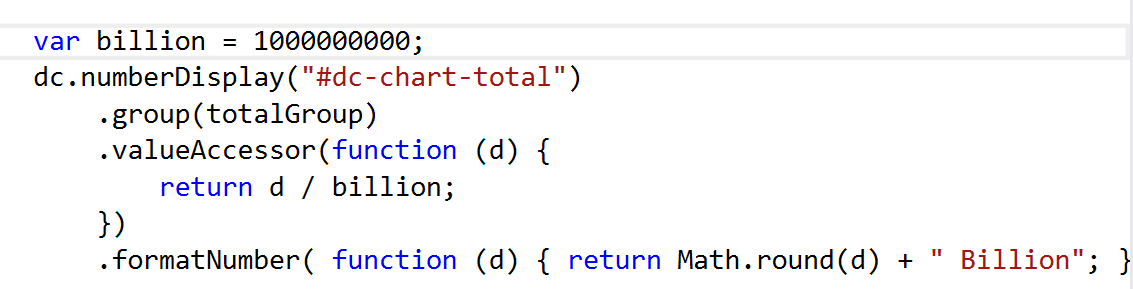
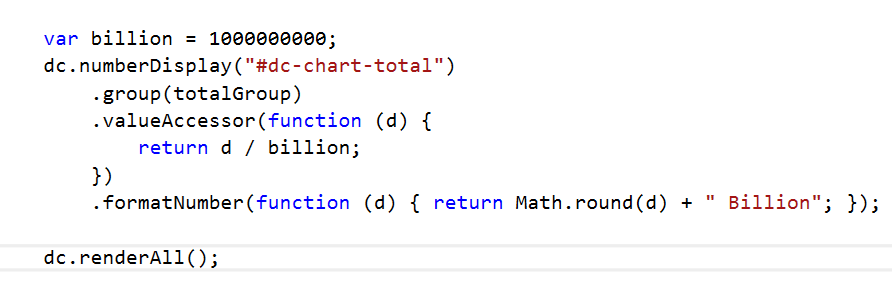
More slides

diff --git a/foreign-assistance/js/foreignAssistance.js b/foreign-assistance/js/foreignAssistance.js
@@ -29,8 +29,8 @@ d3.csv("data/foreignAssistance.csv", function (data) {
         .valueAccessor(function (d) {
             return d / billion; 
         })
-        .formatNumber( function (d) { return Math.round(d) + " Billion"; });
-    
+        .formatNumber(function (d) { return Math.round(d) + " Billion"; });
+        
     var appropriationTypeDim = facts.dimension(dc.pluck('appropriationType'));
     var appropriationTypeGroupSum = appropriationTypeDim.group().reduceSum(
         function (fact) { return fact.amount; });
@@ -69,6 +69,7 @@ d3.csv("data/foreignAssistance.csv", function (data) {
         .x(d3.scale.linear().domain([2005.5, 2015.5]))
         .elasticY(true);
 
+    // these don't return the chart, so can't chain them 
     bar.xAxis().tickFormat(d3.format("d"));
     bar.yAxis().tickFormat(function (v) { return v / billion + " B"; });
 
@@ -80,7 +81,6 @@ d3.csv("data/foreignAssistance.csv", function (data) {
 
     dc.renderAll();
 });
-
 
 var RowChart = function (facts, attribute, width, maxItems) {
     this.dim = facts.dimension(dc.pluck(attribute));

diff --git a/slides/js/services.js b/slides/js/services.js
@@ -79,6 +79,20 @@ angular.module('talkyApp.services', [])
         { imgUrl: 'total-group.png' },
         { imgUrl: 'number-display.png' },
         { imgUrl: 'pie-chart.png' },
+        { imgUrl: 'fiscal-year-group.png' },
+        { imgUrl: 'fiscal-year-chart.png' },
+        { imgUrl: 'tick-format.png' },
+        { imgUrl: 'row-chart-function.png' },
+        { imgUrl: 'call-row-chart-function.png' },
+
+        {
+            title: 'Questions',
+            decks: [
+                'In what year did Department of Defense spend the most money?',
+                'What country has the highest spending for malaria?',
+                'Which agencies do not break out plans by operating unit?',
+            ],
+        },
 
         {
             title: 'dc.js Issues',
